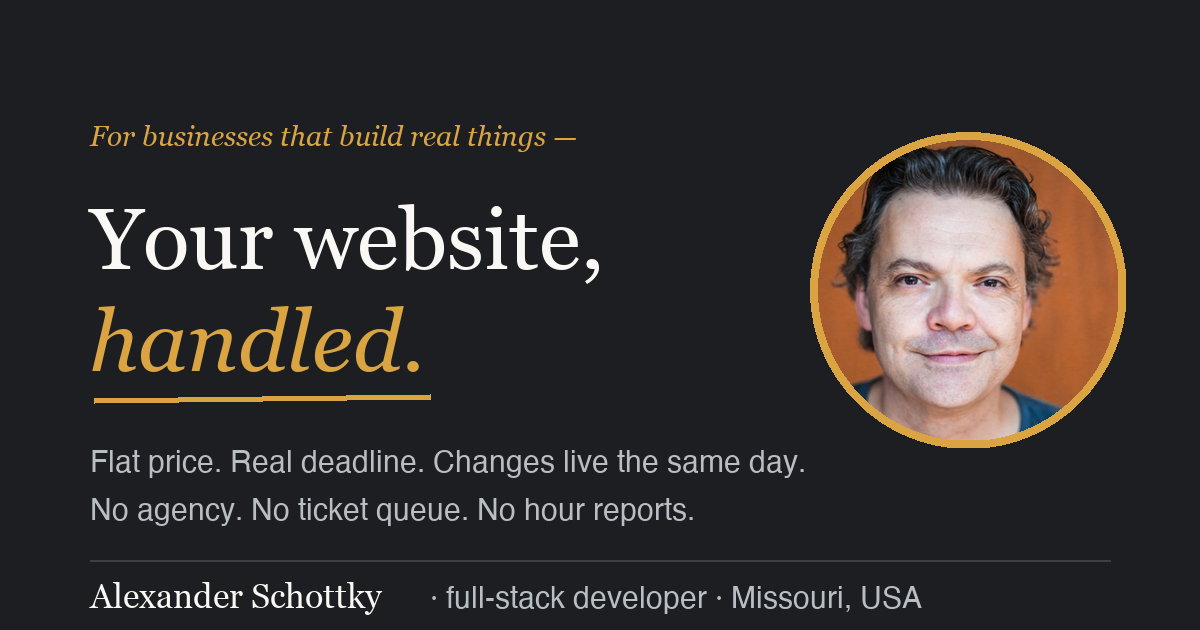
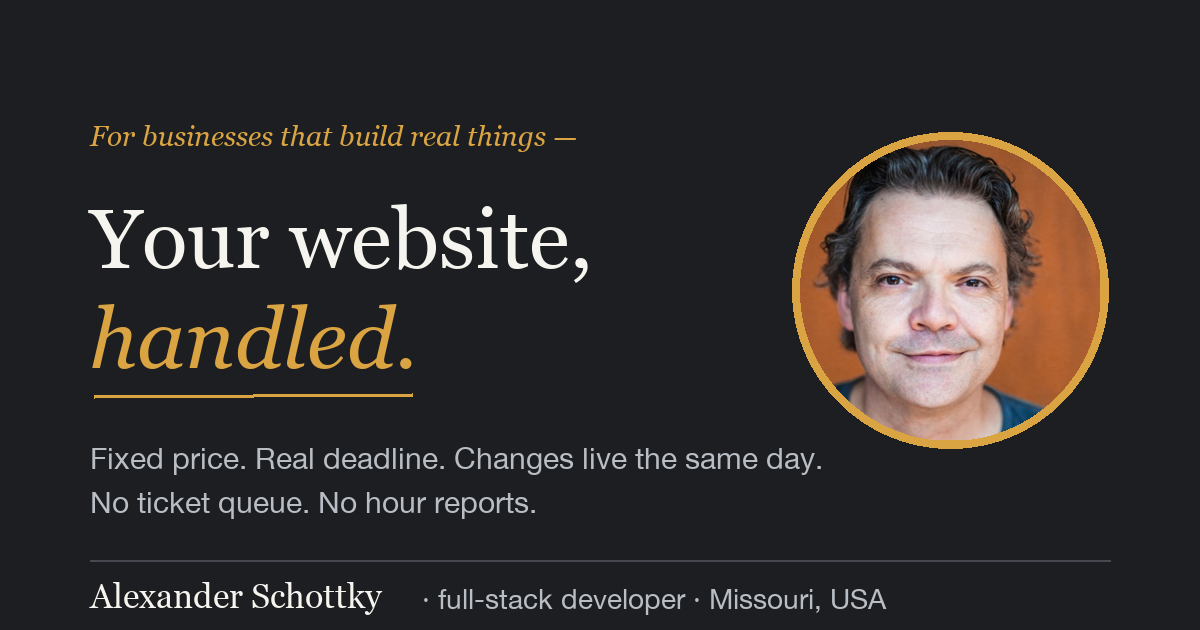
Stop knocking agencies on the homepage; lead with the real stack on /agencies
Homepage: rewrite the agency-queue block, the 'new agency every two years'
line, 'inside an agency's accounts' and the deadline band; regenerate the
share image without 'No agency.' (cache-busted). /agencies: lead with PHP,
TypeScript, React and Node instead of WordPress.

diff --git a/index.html b/index.html
@@ -11,11 +11,11 @@
 <meta property="og:url" content="https://schottky.com/">
 <meta property="og:title" content="Alexander Schottky — Your Website, Handled">
 <meta property="og:description" content="Your in-house developer, without the hire. Fixed price, real deadline, changes live the same day. No ticket queue, no hour reports.">
-<meta property="og:image" content="https://schottky.com/og-image.png">
+<meta property="og:image" content="https://schottky.com/og-image.png?v=2">
 <meta name="twitter:card" content="summary_large_image">
 <meta name="twitter:title" content="Alexander Schottky — Your Website, Handled">
 <meta name="twitter:description" content="Your in-house developer, without the hire. Fixed price, real deadline, changes live the same day.">
-<meta name="twitter:image" content="https://schottky.com/og-image.png">
+<meta name="twitter:image" content="https://schottky.com/og-image.png?v=2">
 <link rel="icon" type="image/png" sizes="32x32" href="assets/favicon-32.png">
 <link rel="icon" type="image/png" sizes="512x512" href="assets/favicon.png">
 <link rel="apple-touch-icon" sizes="180x180" href="assets/apple-touch-icon.png">
@@ -471,7 +471,7 @@ src="https://www.facebook.com/tr?id=2535747113554426&ev=PageView&noscript=1"
     <p class="lead">
       Somebody at your company owns "the website" on top of their real job. They dread it.
       The page editor never does what the design shows, the software wants updating again,
-      and the agency wants a ticket filed. There's a simpler arrangement.
+      and every small change turns into a project. There's a simpler arrangement.
     </p>
 
     <div class="phil-row">
@@ -644,8 +644,8 @@ src="https://www.facebook.com/tr?id=2535747113554426&ev=PageView&noscript=1"
     </div>
 
     <div class="plat">
-      <h3>Stuck in an agency queue?</h3>
-      <p>Every change goes through a ticket, a project manager, and a two-week wait — and by the
+      <h3>Waiting weeks for small changes?</h3>
+      <p>Every change goes through a ticket, a handoff, and a long wait — and by the
       time it ships, the reason you needed it is gone. That's not a website problem. It's an
       accountability problem.</p>
       <p class="outcome">What changes: one accountable owner, not a queue — a fixed price and a real deadline, in writing.</p>
@@ -695,7 +695,7 @@ src="https://www.facebook.com/tr?id=2535747113554426&ev=PageView&noscript=1"
           <li>Surprise invoices and change-order haggling</li>
           <li>Chasing several vendors for one answer</li>
           <li>Software logins, plugin updates, security patches</li>
-          <li>Explaining your site to a new agency every two years</li>
+          <li>Explaining your site to a new developer every two years</li>
         </ul>
       </div>
       <div class="list-card">
@@ -736,7 +736,7 @@ src="https://www.facebook.com/tr?id=2535747113554426&ev=PageView&noscript=1"
         it lives, how it deploys, and what's connected to it. Any competent developer can pick it up
         tomorrow morning.</p>
         <p>That's a stronger continuity story than most business websites have today, where the site
-        is trapped inside software a shrinking number of people understand, or inside an agency's
+        is trapped inside software a shrinking number of people understand, or inside someone else's
         accounts.</p>
       </div>
     </details>
@@ -807,7 +807,7 @@ src="https://www.facebook.com/tr?id=2535747113554426&ev=PageView&noscript=1"
     <p class="hand">the part nobody else will put in writing</p>
     <h2>The deadline has teeth.</h2>
     <p>If your rebuild isn't live on the date we agreed to, you stop paying until it is.
-    Ask the last agency you worked with if they'll sign that sentence.</p>
+    Most contracts won't put that sentence in writing. Mine does.</p>
   </div>
 </section>
 

diff --git a/agencies/index.html b/agencies/index.html
@@ -479,7 +479,7 @@ src="https://www.facebook.com/tr?id=2535747113554426&ev=PageView&noscript=1"
     <div class="cap-grid">
       <div class="cap">
         <h3>Overflow builds</h3>
-        <p>WordPress (custom themes and plugins), Shopify, Webflow or hand-coded sites, built from your design files.</p>
+        <p>Marketing sites, web apps and stores in PHP, TypeScript and React, or whatever the client already runs, built from your design files.</p>
       </div>
       <div class="cap">
         <h3>Client-site maintenance</h3>
@@ -491,7 +491,7 @@ src="https://www.facebook.com/tr?id=2535747113554426&ev=PageView&noscript=1"
       </div>
       <div class="cap">
         <h3>Rescues and migrations</h3>
-        <p>Inherited legacy sites (concrete5, Joomla, old WordPress) moved onto something maintainable, content and rankings carried over.</p>
+        <p>Inherited legacy sites (concrete5, Joomla, aging WordPress installs) moved onto something maintainable, content and rankings carried over.</p>
       </div>
       <div class="cap">
         <h3>Integrations</h3>
@@ -556,7 +556,7 @@ src="https://www.facebook.com/tr?id=2535747113554426&ev=PageView&noscript=1"
     </details>
     <details>
       <summary>Which platforms do you work in?</summary>
-      <div class="a"><p>WordPress (custom themes and plugins), Shopify, Webflow, concrete5, PHP and JavaScript, plus custom web applications. If a client is on something unusual, ask. I've probably inherited one before.</p></div>
+      <div class="a"><p>Pretty much anything on the web. Day to day that's PHP, TypeScript and JavaScript, React, Node.js and SQL, plus the platforms clients end up on, like Shopify, Webflow, WordPress and concrete5. If a client is on something unusual, ask. I've probably inherited one before.</p></div>
     </details>
     <details>
       <summary>How does pricing work?</summary>
@@ -610,7 +610,7 @@ src="https://www.facebook.com/tr?id=2535747113554426&ev=PageView&noscript=1"
         <label>Name<input type="text" name="name" required autocomplete="name"></label>
         <label>Email<input type="email" name="email" required autocomplete="email"></label>
         <label class="rf-full">Agency website<input type="text" name="website" required placeholder="youragency.com"></label>
-        <label class="rf-full">What keeps piling up? <span class="opt">optional</span><textarea name="message" rows="3" placeholder="e.g. WordPress builds, client-site upkeep, a Shopify migration"></textarea></label>
+        <label class="rf-full">What keeps piling up? <span class="opt">optional</span><textarea name="message" rows="3" placeholder="e.g. React builds, client-site upkeep, a platform migration"></textarea></label>
       </div>
       <input type="checkbox" name="botcheck" class="rf-bot" tabindex="-1" autocomplete="off">
       <button type="submit" class="btn big">Start the conversation</button>
